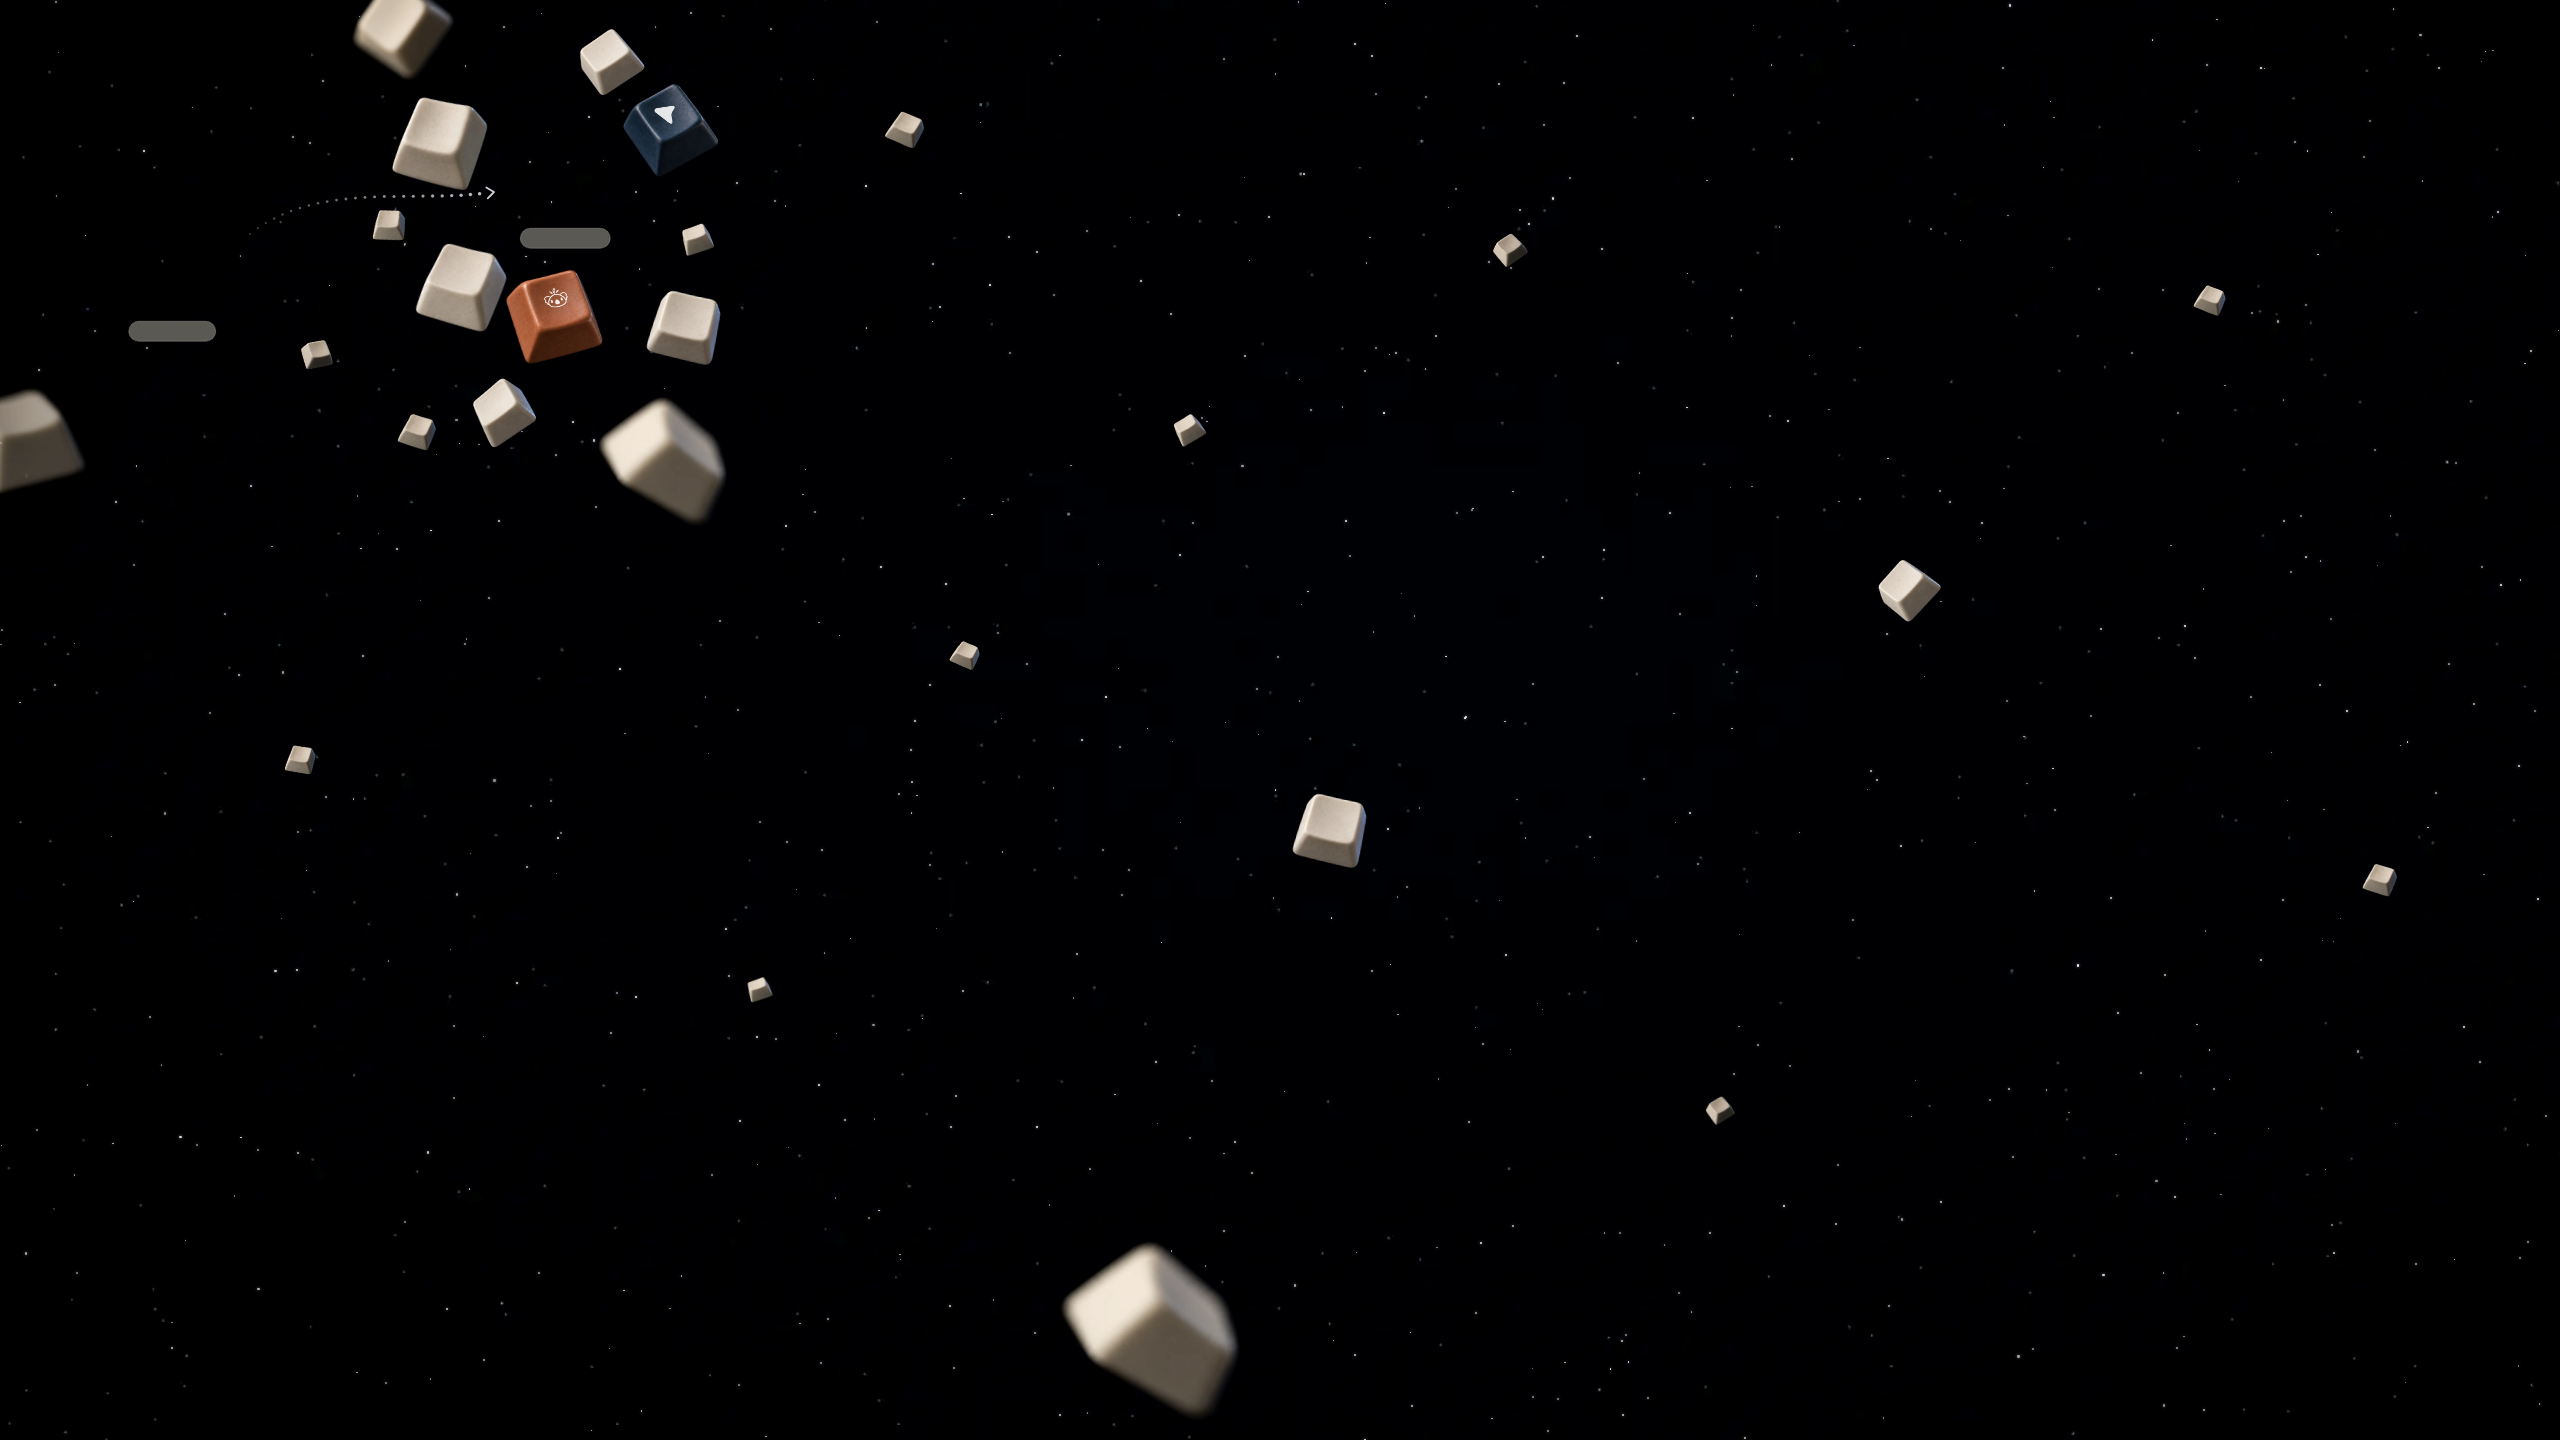
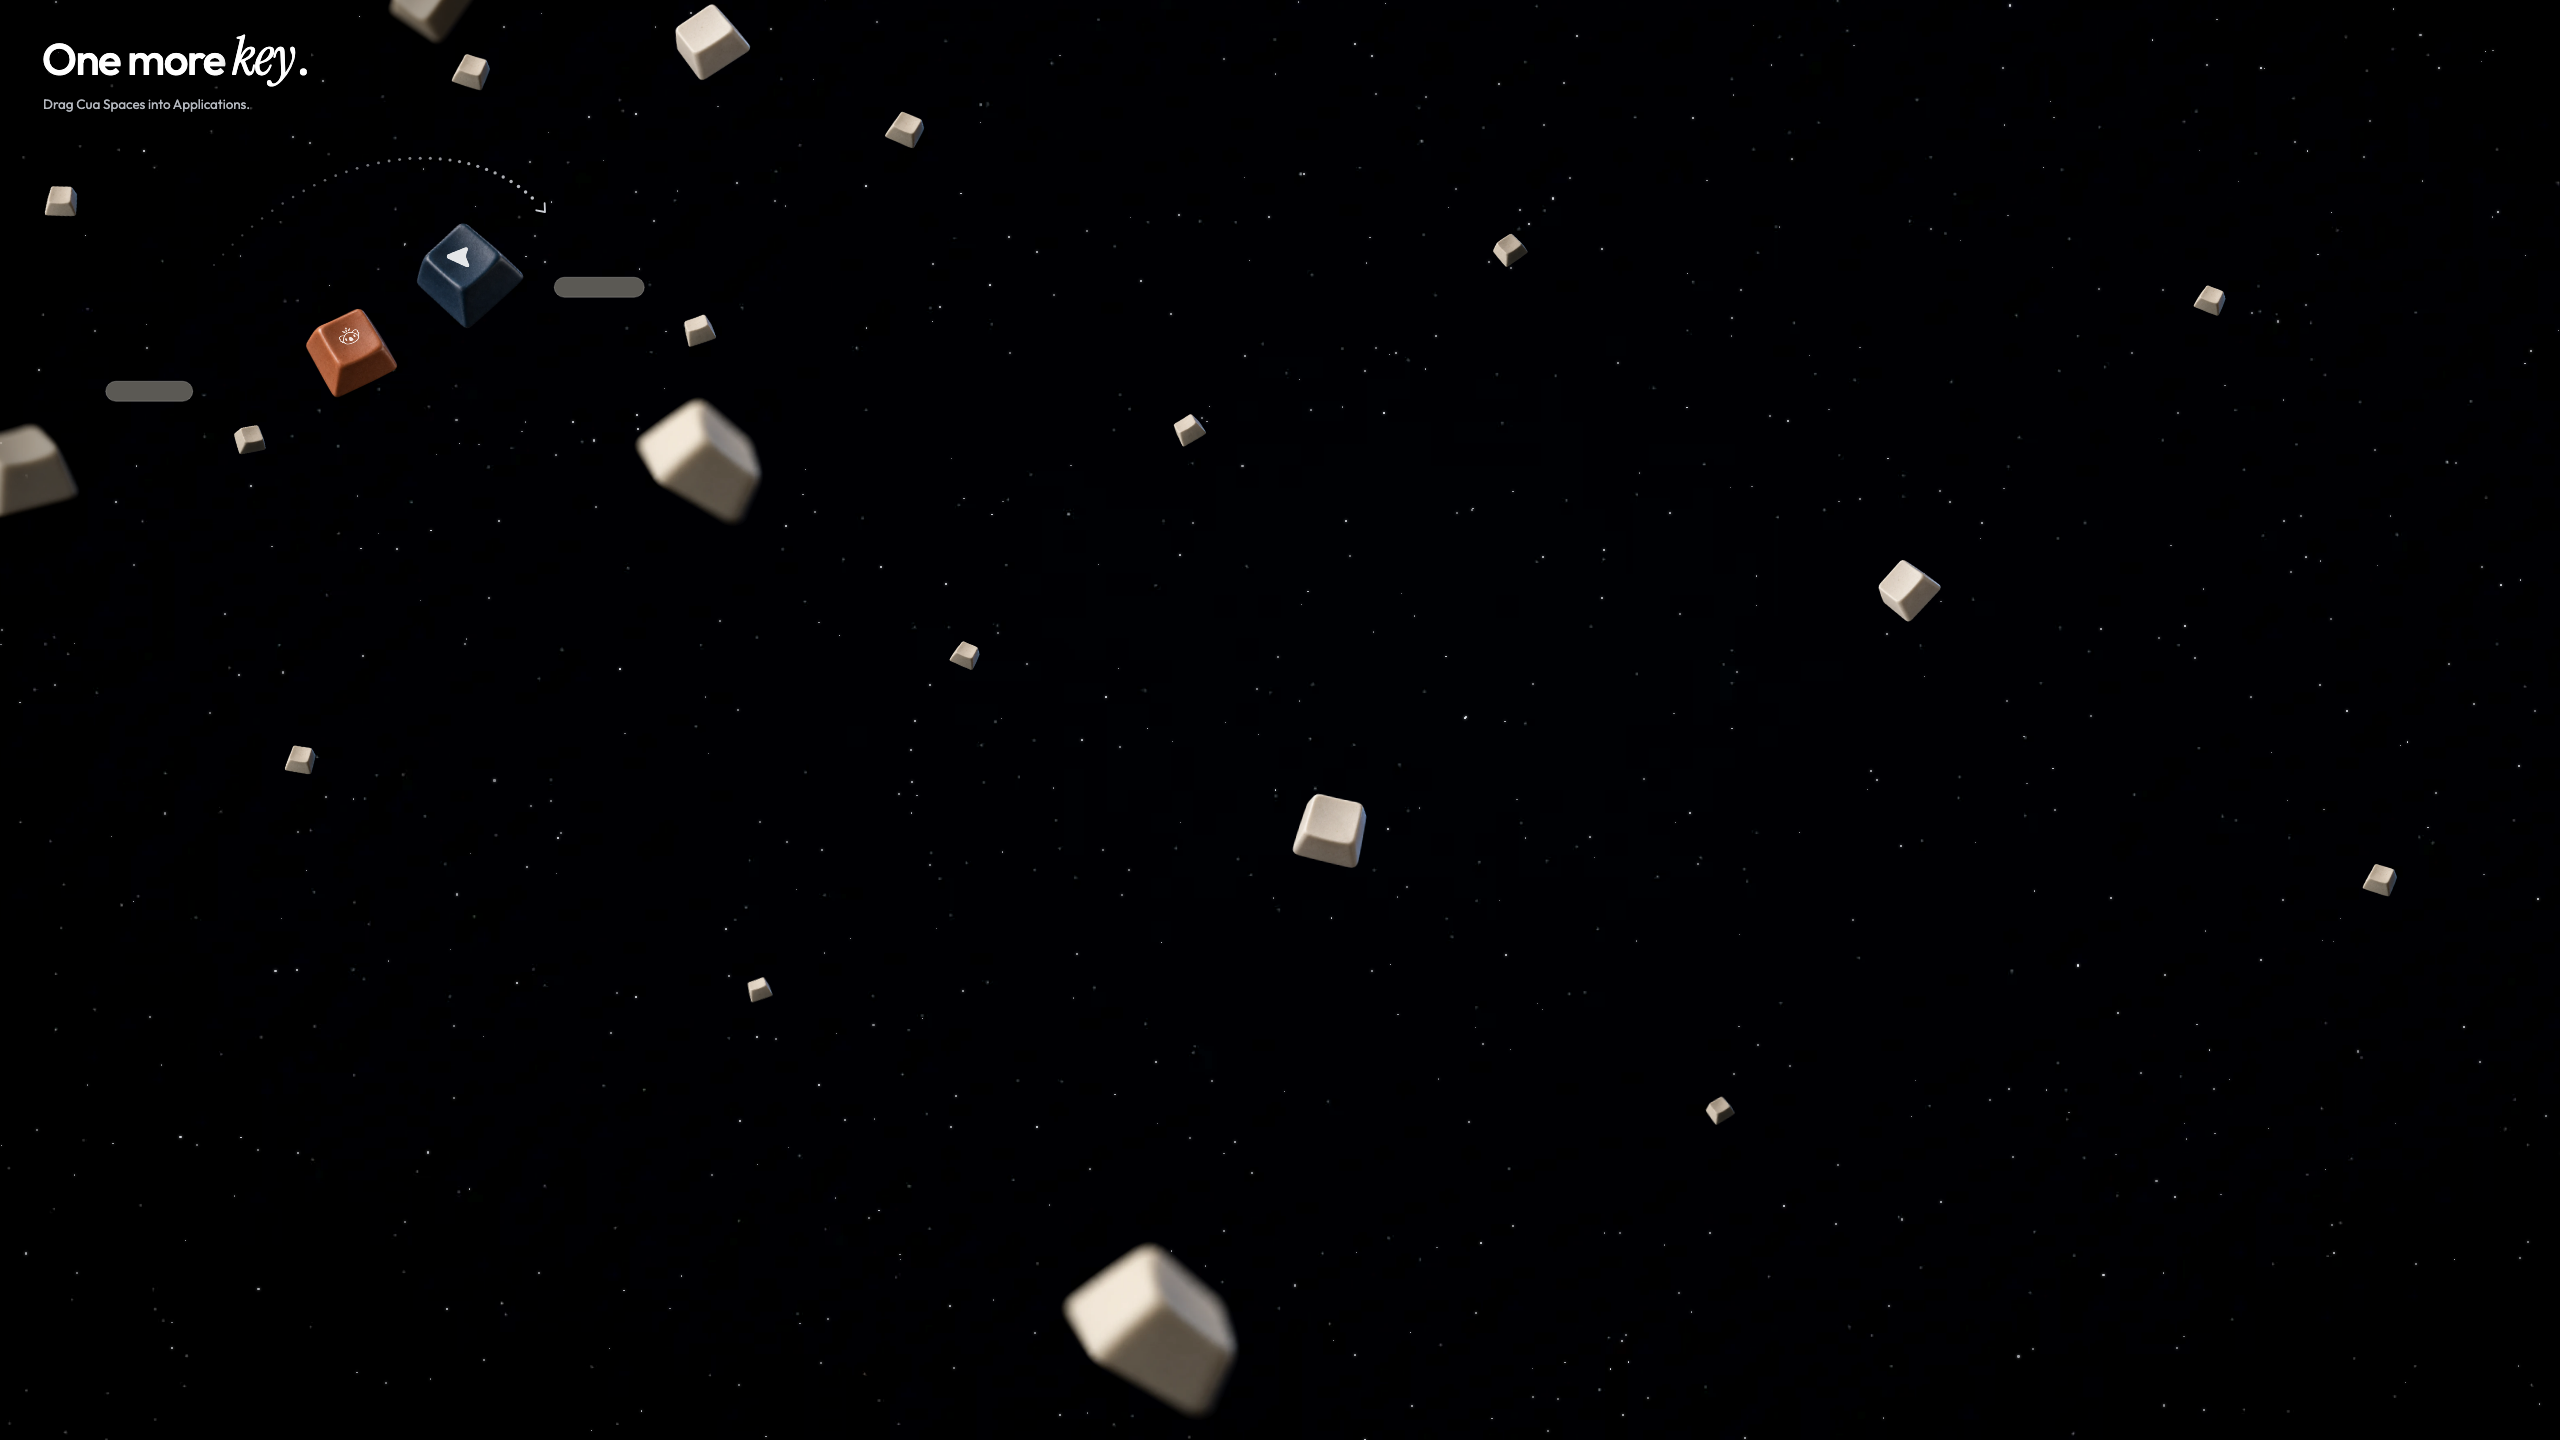
feat(cua-spaces): "One more key." DMG installer background
The approved DMG proposal: the "One more key." headline (Outfit with an
Instrument Serif italic accent) and "Drag Cua Spaces into Applications."
are baked into the background, over the Cua and Cua Driver keys and a
dotted arc to the Applications slot. The ivory cluster around the slot
is gone. The Finder icons move to (150, 300) and (600, 196) to sit on the
art's slots; the window stays 720x512 with 144 pt icons.

render.sh gains --bg-only to redraw just the background. The fonts are
OFL and bundled under dmg-art/src.

diff --git a/apps/cua-spaces-macos/scripts/dmg-art/art.html b/apps/cua-spaces-macos/scripts/dmg-art/art.html
@@ -3,6 +3,9 @@
 <!-- Copyright (c) 2026 Cua AI, Inc. -->
 <meta charset="utf-8">
 <style>
+  @font-face { font-family: "Outfit"; font-weight: 400; src: url(src/outfit-latin-400-normal.woff2) format("woff2"); }
+  @font-face { font-family: "Outfit"; font-weight: 500; src: url(src/outfit-latin-500-normal.woff2) format("woff2"); }
+  @font-face { font-family: "Instrument Serif"; font-style: italic; src: url(src/instrument-serif-latin-400-italic.woff2) format("woff2"); }
   html, body { margin: 0; background: transparent; overflow: hidden; }
   .stage { position: relative; overflow: hidden; }
   .sky { position: absolute; inset: -12px; }
@@ -14,12 +17,17 @@
   .legend { position: absolute; left: 0; top: 0; width: 100px; height: 100px; transform-origin: 0 0; }
   .legend > img { position: absolute; inset: 24%; width: 52%; height: 52%; object-fit: contain; }
   .legend > svg { position: absolute; inset: 17%; width: 66%; height: 66%; overflow: visible; }
+  /* Baked into the image, so it reads the same in light and dark Finder. */
+  .copy { position: absolute; left: 42px; top: 34px; z-index: 30; font-family: "Outfit", sans-serif; color: #fff; text-shadow: 0 0 6px #000, 0 0 18px #000; }
+  .copy h1 { margin: 0; font-size: 44px; font-weight: 500; letter-spacing: -0.035em; line-height: 1; white-space: nowrap; }
+  .copy .accent { font-family: "Instrument Serif", serif; font-style: italic; font-weight: 400; letter-spacing: -0.01em; font-size: 1.22em; line-height: .86; margin-right: .04em; }
+  .copy p { margin: 14px 0 0 1px; font-size: 13.5px; font-weight: 400; color: #b4b8bf; letter-spacing: -0.005em; white-space: nowrap; }
 </style>
 <div class="stage" id="stage"></div>
 <script>
   const WIN = { w: 720, h: 480 };
   const CANVAS = { w: 2560, h: 1440 };
-  const APP = { x: 173, y: 240, label: 65 }, APPS = { x: 566, y: 147, label: 68 };
+  const APP = { x: 150, y: 300, label: 65 }, APPS = { x: 600, y: 196, label: 68 };
   const LABEL_DX = -0.75, LABEL_DY = 91.25;
   const ALIAS_DY = 128;
   const ALIAS_DX = -43;
@@ -34,17 +42,17 @@
     "near-1": { w: 473, h: 397 }, "near-2": { w: 467, h: 471 }, "near-3": { w: 463, h: 459 },
     "far-1": { w: 236, h: 220 }, "far-2": { w: 225, h: 212 }, "far-3": { w: 220, h: 220 }, "far-4": { w: 237, h: 226 },
   };
+  // In-window keys, as % of WIN. The Spaces key (TARGET) is not drawn: it is
+  // the app's Finder icon. Nothing else sits near the Applications slot.
   const LAYOUT = [
-    { src: "far-2", x: 54, y: 47, size: 5.2, depth: .1, rot: -8 }, { src: "far-4", x: 44, y: 74, size: 5, depth: .1, rot: 12 },
-    { src: "far-1", x: 58, y: 90, size: 5.6, depth: .12, rot: 4 }, { src: "far-3", x: 97, y: 50, size: 5, depth: .1, rot: 6 },
-    { src: "ivory-3", x: 85, y: 13, size: 9.5, depth: .45, rot: 4 }, { src: "ivory-1", x: 64, y: 60, size: 13.5, depth: .5, rot: -6 },
-    { src: "ivory-5", x: 95, y: 68, size: 10, depth: .45, rot: 8 }, { src: "ivory-6", x: 70, y: 86, size: 9, depth: .45, rot: -3 },
-    { src: "product-4", x: 61, y: 30, size: 14, depth: .55, rot: -4 },
-    { src: "product-1", x: 78, y: 40, size: 15, depth: .6, rot: 6, legend: "spaces" },
-    { src: "product-2", x: 93, y: 27, size: 13, depth: .55, rot: -9, legend: "driver" },
-    { src: "product-3", x: 77, y: 66, size: 14, depth: .6, rot: 3, legend: "lume" },
-    { src: "near-2", x: 56, y: 6, size: 15, depth: .9, rot: 0 }, { src: "near-1", x: 3, y: 92, size: 19, depth: 1, rot: 0, soft: true },
-    { src: "near-3", x: 92, y: 96, size: 19, depth: .95, rot: 0 },
+    { src: "far-2", x: 8.5, y: 42, size: 5.2, depth: .1, rot: -8 }, { src: "far-4", x: 34.7, y: 91.7, size: 5, depth: .1, rot: 12 },
+    { src: "far-1", x: 65.5, y: 15, size: 5.6, depth: .12, rot: 4 }, { src: "far-3", x: 97.2, y: 69, size: 5, depth: .1, rot: 6 },
+    { src: "ivory-3", x: 99, y: 9, size: 11, depth: .45, rot: 4 },
+    { src: "product-1", x: 20.8, y: 62.5, size: 15, depth: .6, rot: 6, legend: "spaces" },
+    { src: "product-2", x: 65, y: 57, size: 14.5, depth: .6, rot: -22, legend: "driver" },
+    { src: "product-3", x: 48.8, y: 73.5, size: 12.5, depth: .6, rot: -8, legend: "lume" },
+    { src: "near-2", x: 60, y: 0, size: 13, depth: .9, rot: 0, soft: true }, { src: "near-1", x: 3, y: 98, size: 17, depth: 1, rot: 0, soft: true },
+    { src: "near-3", x: 97, y: 96, size: 19, depth: .95, rot: 0 },
   ];
   const LEGEND = {
     spaces: '<img src="src/spaces-tray-template.svg" style="opacity:.8;mix-blend-mode:multiply">',
@@ -115,9 +123,9 @@
   function guides() {
     const pill = (c) => { const w = c.label + 22, h = 20, x = c.x + LABEL_DX - w / 2, y = c.y + LABEL_DY - h / 2;
       return `<rect x="${x}" y="${y}" width="${w}" height="${h}" rx="10" fill="#5b5954" stroke="#fff" stroke-opacity=".22"/>`; };
-    const P = [[250, 234], [318, 180], [415, 204], [494, 192]];
+    const P = [[214, 265], [320, 140], [480, 128], [545, 212]];
     const at = (t) => [0, 1].map((i) => (1 - t) ** 3 * P[0][i] + 3 * (1 - t) ** 2 * t * P[1][i] + 3 * (1 - t) * t * t * P[2][i] + t ** 3 * P[3][i]);
-    let dots = "", n = 26;
+    let dots = "", n = 34;
     for (let i = 0; i < n; i++) {
       const t = i / (n - 1) * .94, [x, y] = at(t);
       dots += `<circle cx="${x.toFixed(1)}" cy="${y.toFixed(1)}" r="${(1.1 + t * .7).toFixed(2)}" fill="#f0f3fa" fill-opacity="${(.22 + t * .6).toFixed(2)}"/>`;
@@ -134,7 +142,8 @@
       EXTRA_KEYS.map((e) => item(e.src, e.x, e.y, e.w, e.rot)).join("") +
       LAYOUT.filter((e) => e.src !== TARGET).map((e) =>
         item(e.src, e.x / 100 * WIN.w, e.y / 100 * WIN.h, e.size / 100 * WIN.w, e.rot, { legend: e.legend, z: Math.round(e.depth * 10), soft: e.soft })).join("") +
-      guides();
+      guides() +
+      `<div class="copy"><h1>One more <span class="accent">key</span>.</h1><p>Drag Cua Spaces into Applications.</p></div>`;
   } else if (mode === "icon") {
     Object.assign(stage.style, { width: ICON + "px", height: ICON + "px" });
     const clip = `path('${squircle(ICON, (ICON - TILE) / 2)}')`;

diff --git a/apps/cua-spaces-macos/scripts/dmg-settings.py b/apps/cua-spaces-macos/scripts/dmg-settings.py
@@ -30,6 +30,6 @@ text_size = 12
 icon_size = 144
 hide_extensions = [app_name]
 icon_locations = {
-    app_name: (173, 240),
-    os.path.basename(alias): (566, 147),
+    app_name: (150, 300),
+    os.path.basename(alias): (600, 196),
 }
